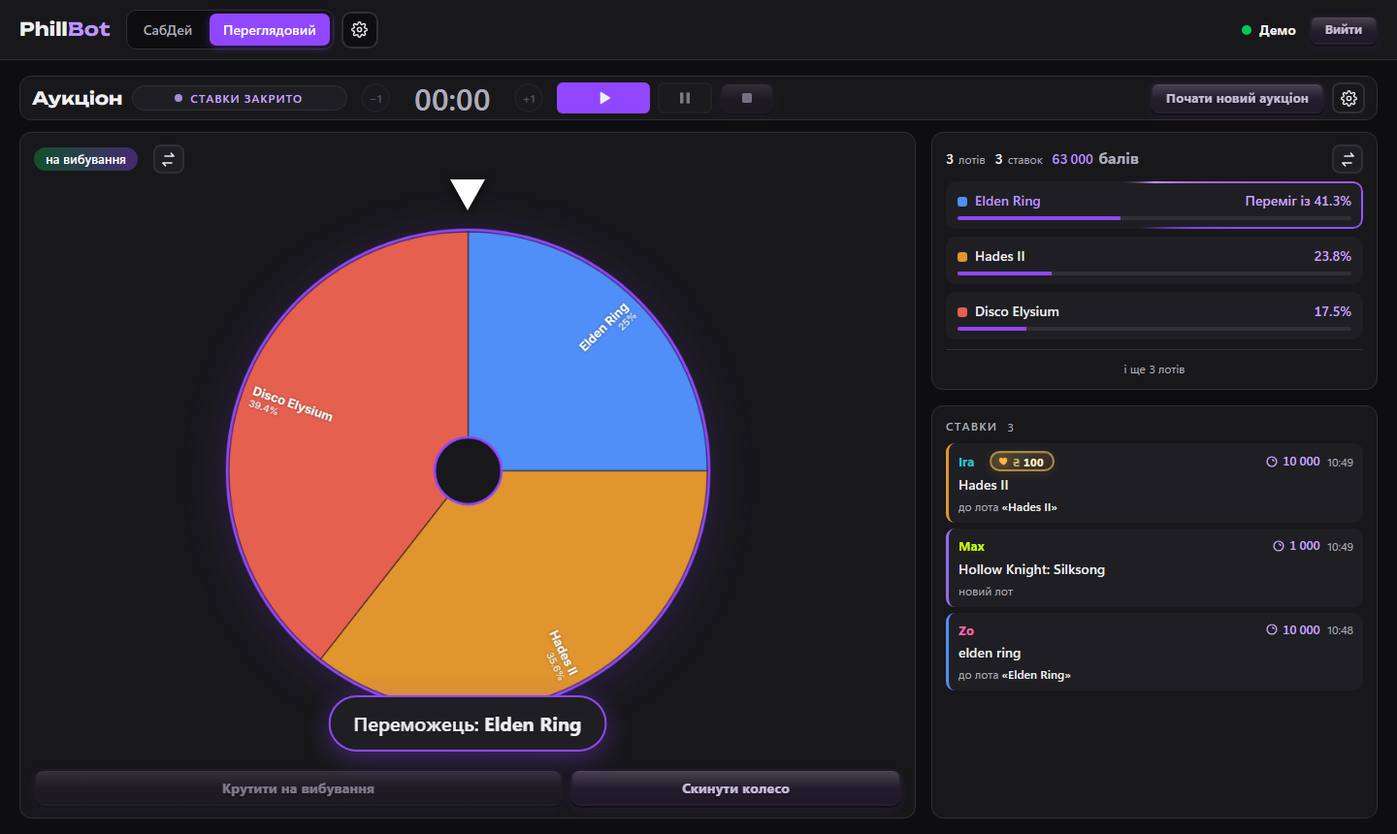
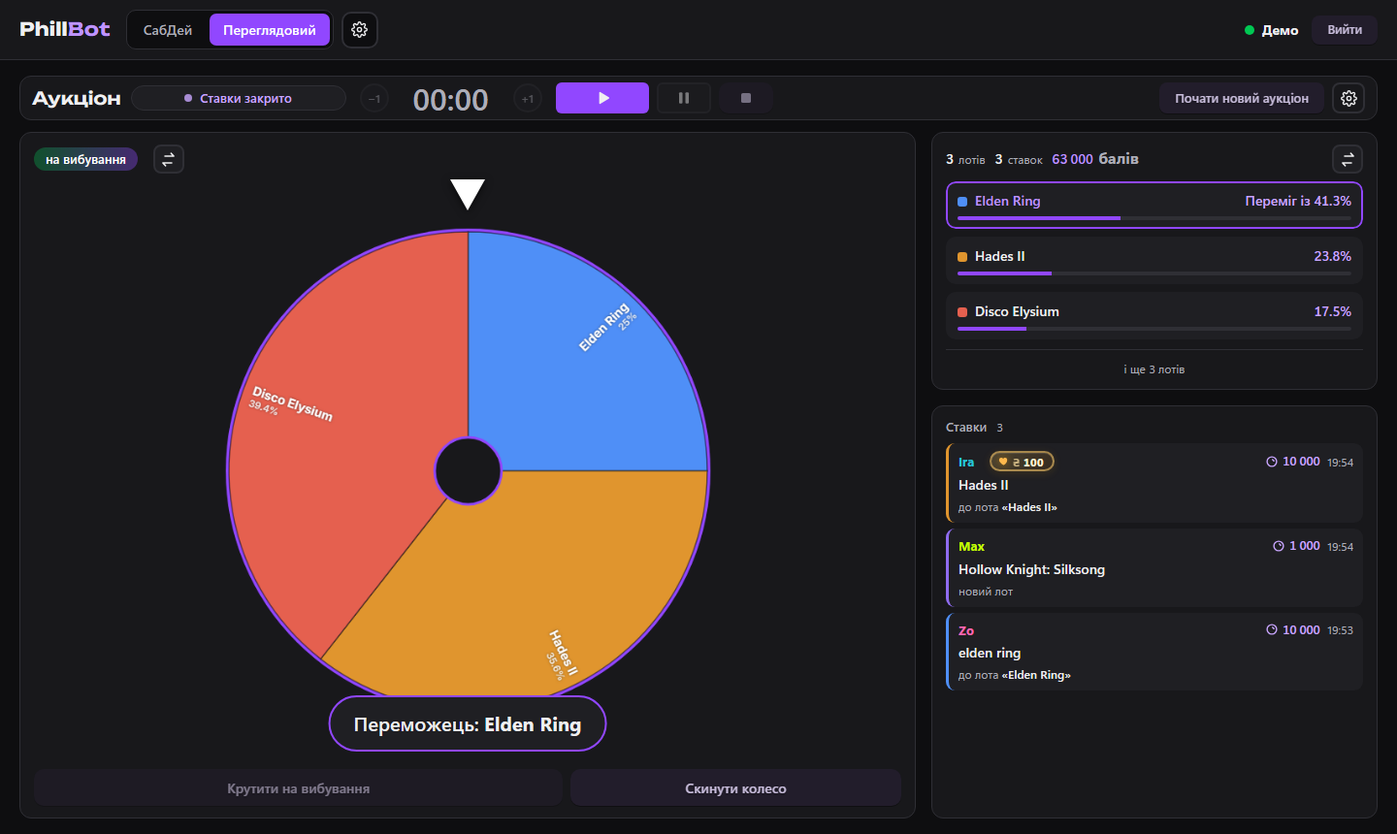
UI polish (unslop): sentence-case labels, no glows or gloss, static winner row
- uppercase tracked labels -> sentence case (cards, tables, status, settings, viewer)
- remove purple/green glows on buttons, tabs, wheel, winner pill, steps
- hold buttons are flat at rest; gloss only while the liquid fills
- status pill: dot + text, no pulse; current-collection arrow no longer flows
- winner row: static brand border instead of spinning, pulsing gradient
- headings 600 instead of 700; one transition:all removed
- README screenshots refreshed

diff --git a/app/frontend/dist/style.css b/app/frontend/dist/style.css
@@ -42,7 +42,7 @@ main{flex:1;min-height:0;display:flex;flex-direction:column}
 aside{overflow-y:auto;padding-right:4px}
 section{display:flex;flex-direction:column;min-height:0;min-width:0}
 .card{background:var(--panel);border:1px solid var(--line);border-radius:10px;padding:14px;margin-bottom:16px}
-.card h2{font:600 12px/1.3 var(--font-ui);text-transform:uppercase;letter-spacing:1px;color:var(--muted);margin:0 0 10px}
+.card h2{font:600 13px/1.3 var(--font-ui);color:var(--muted);margin:0 0 10px}
 label{display:block;color:var(--muted);font-size:12px;margin:8px 0 3px}
 input,select{background:var(--panel2);color:var(--text);border:1px solid var(--line);border-radius:6px;padding:7px 9px;font:inherit;width:100%}
 input:focus,select:focus{outline:none;border-color:var(--accent)}
@@ -112,7 +112,7 @@ details summary{cursor:pointer;color:var(--muted);font-size:12px;margin-top:8px}
 #toast.show{opacity:1}
 .modal .box.settings{max-width:480px}
 .settings h2{font-size:16px;margin:0 0 6px}
-.settings h3{font-size:12px;text-transform:uppercase;letter-spacing:.8px;color:var(--muted);margin:16px 0 4px}
+.settings h3{font-size:13px;font-weight:600;color:var(--muted);margin:16px 0 4px}
 .obsrow{display:flex;align-items:center;gap:6px;margin-top:6px;font-size:12px}
 .obsrow span{flex:1;min-width:0}
 .obsrow code{display:block;font-size:12px;overflow:hidden;text-overflow:ellipsis;white-space:nowrap}
@@ -165,7 +165,7 @@ tr.drop td:first-child{box-shadow:inset 3px 0 0 var(--accent)}
 .mode-tab:not(:disabled):hover{background:var(--panel2);color:var(--text)}
 .mode-tab.active{background:var(--accent);color:#fff}
 .mode-tab.active:hover{background:var(--accent2)!important}
-.mode-tab small{font-size:12px;font-weight:600;opacity:.8;margin-left:2px;text-transform:uppercase;letter-spacing:.5px}
+.mode-tab small{font-size:12px;font-weight:600;opacity:.8;margin-left:2px}
 .mode-tab .lock{margin-left:6px;font-size:12px;color:var(--warn)}
 .mode-tab.active .lock{color:#fff}
 .icon-btn{width:34px;height:32px;padding:0;font-size:16px;display:inline-flex;align-items:center;justify-content:center}
@@ -191,7 +191,7 @@ input[type=range]{padding:0;accent-color:var(--accent);background:transparent;bo
 .rtile .rcost svg{width:12px;height:12px}
 .rtile .rtitle{padding:7px 9px 9px;font-size:12.5px;font-weight:600;line-height:1.3;color:var(--text);min-height:2.6em;overflow-wrap:anywhere}
 .rtile .rtags{display:flex;gap:4px;flex-wrap:wrap;padding:0 9px 8px;margin-top:-4px}
-.rtile .rtag{font-size:12px;font-weight:700;text-transform:uppercase;letter-spacing:.4px;border-radius:3px;padding:1px 5px;background:#3a2a10;color:var(--warn)}
+.rtile .rtag{font-size:12px;font-weight:600;border-radius:3px;padding:1px 5px;background:#3a2a10;color:var(--warn)}
 .rtile .rtag.off{background:#2a2a30;color:var(--muted)}
 .rtile.off .rimg{filter:grayscale(.7) brightness(.7)}
 .rtile.sel{border-color:var(--accent);box-shadow:0 0 0 3px rgba(145,71,255,.25)}
@@ -204,8 +204,8 @@ input[type=range]{padding:0;accent-color:var(--accent);background:transparent;bo
 /* ---------- кнопка «Експорт у Marbles» ---------- */
 .mexport{margin-top:10px}
 .mbtn{position:relative;overflow:hidden;width:100%;height:44px;display:flex;align-items:center;justify-content:center;gap:10px;
-  background:linear-gradient(135deg,#9147ff,#6f2ee0);border:0;color:#fff;font-weight:700;font-size:15px;border-radius:8px;box-shadow:0 2px 10px rgba(145,71,255,.3)}
-.mbtn:not(:disabled):hover{background:linear-gradient(135deg,#a066ff,#7b3bef);box-shadow:0 4px 16px rgba(145,71,255,.45)}
+  background:var(--brand);border:0;color:#fff;font-weight:600;font-size:15px;border-radius:8px}
+.mbtn:not(:disabled):hover{background:#9d5bff}
 .mbtn:disabled{background:var(--panel2);color:var(--muted);box-shadow:none;opacity:1;border:1px solid var(--line)}
 .mbtn.warn:not(:disabled){background:linear-gradient(135deg,#c97a00,#9147ff)}
 .mbtn .mlabel,.mbtn .mcount{position:relative;z-index:1}
@@ -216,7 +216,7 @@ input[type=range]{padding:0;accent-color:var(--accent);background:transparent;bo
 .mbtn.busy:disabled{background:linear-gradient(135deg,#9147ff,#6f2ee0);color:#fff}
 .mbtn.busy .mfill{animation:mfill 1.2s ease-in-out infinite}
 @keyframes mfill{0%{width:0;left:0}50%{width:100%;left:0}100%{width:0;left:100%}}
-.mbtn.ok:disabled{background:linear-gradient(135deg,#00a84f,#008f43);color:#fff;box-shadow:0 2px 12px rgba(0,200,83,.35)}
+.mbtn.ok:disabled{background:#00a84f;color:#fff}
 .mbtn.ok .mlabel{animation:mpop .35s cubic-bezier(.3,1.6,.5,1)}
 .mbtn.go:disabled{background:linear-gradient(135deg,#00a84f,#1e90ff)}
 .mbtn.go .mlabel{animation:mpop .35s cubic-bezier(.3,1.6,.5,1),mrise 1.8s ease-in .2s}
@@ -246,7 +246,7 @@ body{font-size:14px;line-height:1.5}
 .pane.subday{grid-template-columns:340px minmax(0,1fr);gap:20px;padding:20px 24px}
 aside{padding-right:6px}
 .card{border-radius:var(--r);padding:18px;margin-bottom:var(--gap)}
-.card h2{font:600 12px/1.3 var(--font-ui);letter-spacing:1.2px;margin:0 0 12px}
+.card h2{font:600 13px/1.3 var(--font-ui);margin:0 0 12px}
 
 /* таймер */
 .timerbox{display:grid;grid-template-columns:44px 1fr 44px;align-items:center;gap:8px;margin:2px 0 2px}
@@ -294,7 +294,7 @@ details.fold[open]>summary{padding:14px 0 10px}
 /* таблиці */
 .tablewrap{border-radius:var(--r)}
 th,td{padding:11px 14px}
-th{font:600 12px/1.3 var(--font-ui);text-transform:uppercase;letter-spacing:.8px;color:var(--muted);background:#1c1c20;border-bottom:1px solid var(--line);white-space:nowrap}
+th{font:600 13px/1.3 var(--font-ui);color:var(--muted);background:#1c1c20;border-bottom:1px solid var(--line);white-space:nowrap}
 td{font-size:14px}
 tbody tr:last-child td{border-bottom:0}
 .gripcol{width:28px;padding-left:12px;padding-right:0}
@@ -351,7 +351,7 @@ tr.gdetail:hover{background:transparent}
 .wbox{text-align:center;transform:scale(.92);transition:transform .6s cubic-bezier(.2,1.4,.4,1)}
 .welcome.play .wbox{transform:scale(1)}
 .whi{font:600 22px/1.2 var(--font-display);color:var(--muted);opacity:0;animation:wfade .5s .1s forwards}
-.wname{font:700 60px/1.1 var(--font-brand);letter-spacing:.5px;margin:6px 0 10px;
+.wname{font:600 60px/1.1 var(--font-brand);margin:6px 0 10px;
   color:var(--brand-text);
   opacity:0;animation:wpop .7s .2s cubic-bezier(.2,1.5,.4,1) forwards}
 .wsub{font-size:14px;color:var(--muted);opacity:0;animation:wfade .5s .55s forwards}
@@ -366,7 +366,7 @@ tr.gdetail:hover{background:transparent}
 .chatmain .chatwrap,.chatmain .locked{flex:1;min-height:0}
 .cusers{background:var(--panel);border:1px solid var(--line);border-radius:var(--r,12px);overflow-y:auto;padding:8px 0;scrollbar-gutter:stable}
 .cugroup+.cugroup{margin-top:6px}
-.cuhead{display:flex;justify-content:space-between;align-items:center;padding:8px 16px 4px;font:600 12px/1.3 var(--font-ui);text-transform:uppercase;letter-spacing:1px;color:var(--muted)}
+.cuhead{display:flex;justify-content:space-between;align-items:center;padding:8px 16px 4px;font:600 13px/1.3 var(--font-ui);color:var(--muted)}
 .cuhead span{font-variant-numeric:tabular-nums;background:var(--panel2);border-radius:10px;padding:1px 8px;letter-spacing:0}
 .curow{padding:4px 16px;font-size:13.5px;overflow:hidden;text-overflow:ellipsis;white-space:nowrap}
 .curow:hover{background:var(--panel2)}
@@ -392,9 +392,9 @@ tr.gdetail:hover{background:transparent}
 .subdaywrap{flex:1;min-height:0;display:flex;flex-direction:column}
 .stepper{display:flex;align-items:center;gap:14px;padding:14px 24px 0;max-width:560px}
 .step{display:flex;align-items:center;gap:10px;color:var(--muted);font-weight:600;white-space:nowrap}
-.step .num{width:28px;height:28px;border-radius:50%;display:flex;align-items:center;justify-content:center;border:2px solid var(--line);font:700 13px/1 var(--font-display);transition:all .3s}
+.step .num{width:28px;height:28px;border-radius:50%;display:flex;align-items:center;justify-content:center;border:2px solid var(--line);font:600 13px/1 var(--font-display);transition:background-color .3s,border-color .3s,color .3s}
 .step.active{color:var(--text)}
-.step.active .num{border-color:var(--accent);background:var(--accent);color:#fff;box-shadow:0 0 0 4px rgba(145,71,255,.2)}
+.step.active .num{border-color:var(--accent);background:var(--accent);color:#fff}
 .step.done .num{border-color:var(--ok);background:var(--ok);color:#06130b}
 .sline{flex:1;height:3px;background:var(--line);border-radius:2px;overflow:hidden;min-width:60px}
 .sline span{display:block;height:100%;width:0;background:linear-gradient(90deg,var(--ok),var(--accent));transition:width .6s ease}
@@ -406,8 +406,8 @@ tr.gdetail:hover{background:transparent}
 /* етап 2 */
 .gamepane{display:flex;align-items:center;justify-content:center;padding:24px}
 .gamecard{width:min(720px,100%);background:var(--panel);border:1px solid var(--line);border-radius:16px;padding:32px 36px;text-align:center;box-shadow:0 20px 60px rgba(0,0,0,.35)}
-.glabel{font:600 12px/1.3 var(--font-ui);text-transform:uppercase;letter-spacing:1.4px;color:var(--muted)}
-.gname{font:700 36px/1.15 var(--font-brand);margin:10px 0 12px;overflow-wrap:anywhere;color:var(--text)}
+.glabel{font:600 13px/1.3 var(--font-ui);color:var(--muted)}
+.gname{font:600 36px/1.15 var(--font-brand);margin:10px 0 12px;overflow-wrap:anywhere;color:var(--text)}
 .gusers{font-size:13.5px;line-height:2;color:var(--muted);min-height:1em}
 .gtimerbox{display:grid;grid-template-columns:56px 1fr 56px;align-items:center;gap:12px;margin:22px 0 6px}
 .gtimer{font:600 120px/1 var(--font-display);font-variant-numeric:tabular-nums;color:var(--text)}
@@ -421,7 +421,7 @@ tr.gdetail:hover{background:transparent}
 /* вибір переможця */
 td.wincell{white-space:nowrap;padding-left:0;padding-right:6px}
 .winbtn{background:linear-gradient(135deg,#9147ff,#6f2ee0);border:0;color:#fff;font-weight:700;border-radius:8px;padding:5px 12px;opacity:.85}
-.winbtn:hover{opacity:1;box-shadow:0 2px 10px rgba(145,71,255,.4)}
+.winbtn:hover{opacity:1}
 
 /* налаштування: лише вибрана нагорода + «Показати всі» */
 .rtile.rmore{border:2px dashed #3a3a42;background:transparent}
@@ -444,7 +444,7 @@ td.wincell{white-space:nowrap;padding-left:0;padding-right:6px}
 .srow.active{border-color:var(--accent);background:rgba(145,71,255,.14)}
 .sdate{font-weight:700;min-width:170px}
 .smeta{flex:1;color:var(--muted);font-size:13px}
-.sbadge{font-size:12px;font-weight:700;text-transform:uppercase;letter-spacing:.5px;color:var(--ok)}
+.sbadge{font-size:12px;font-weight:600;color:var(--ok)}
 
 /* ---------- індикатор завантаження (див. frontend/README.md) ----------
    Будь-який елемент з класом .is-loading отримує анімовану рамку: градієнт зелений → фіолетовий, що біжить по контуру. */
@@ -464,18 +464,18 @@ td.wincell{white-space:nowrap;padding-left:0;padding-right:6px}
 /* ---------- шрифти: лише змінні --font-* (див. frontend/README.md) ---------- */
 button,input,select,textarea,option{font-family:inherit}
 code,kbd,pre,samp{font-family:var(--font-mono)}
-h1,h2,h3,h4{font-family:var(--font-brand)}
+h1,h2,h3,h4{font-family:var(--font-brand);font-weight:600}
 .card h2,.cuhead,th,.glabel,.settings h3:not(.twitchfont){font-family:var(--font-ui)}
 .settings h3.row>.icon-btn{flex:0 0 34px}
 
 /* ---------- «Переможець»: затисніть і тримайте ----------
    Натиск — кнопка вдавлюється; рідина з градієнтом зелений → фіолетовий заповнює її зліва направо (рух — у JS, змінна --p). */
 .winbtn{--p:0;--w:132px;position:relative;overflow:hidden;isolation:isolate;min-width:132px;height:34px;padding:0 16px;border-radius:10px;
-  border:1px solid rgba(145,71,255,.5);background:linear-gradient(180deg,#2a2236,#211b2b);color:#e9dcff;font-weight:700;letter-spacing:.2px;
+  border:1px solid rgba(145,71,255,.45);background:#241e2e;color:#e9dcff;font-weight:600;
   user-select:none;touch-action:none;transform:translateY(0) scale(1);
-  box-shadow:0 2px 0 rgba(0,0,0,.45),0 4px 12px rgba(145,71,255,.12),inset 0 1px 0 rgba(255,255,255,.06);
+  box-shadow:0 1px 0 rgba(0,0,0,.4);
   transition:transform .14s cubic-bezier(.3,.7,.4,1),box-shadow .14s,border-color .2s}
-.winbtn:hover{border-color:#a970ff;background:linear-gradient(180deg,#2f2640,#251e31)!important}
+.winbtn:hover{border-color:#a970ff;background:#2a2336!important}
 .winbtn.pressed{transform:translateY(2px) scale(.955);border-color:#b78bff;
   box-shadow:0 0 0 rgba(0,0,0,0),inset 0 3px 10px rgba(0,0,0,.55),0 0 0 4px rgba(145,71,255,.18)}
 .winbtn.near{animation:near .12s linear infinite}
@@ -492,7 +492,9 @@ h1,h2,h3,h4{font-family:var(--font-brand)}
 .winbtn .lq-edge path.e2{fill:rgba(220,200,255,.35);animation-duration:.8s}
 @keyframes edge{from{transform:translateY(-15px)}to{transform:translateY(0)}}
 .winbtn .lq-gloss{position:absolute;inset:0;border-radius:inherit;z-index:2;
-  background:linear-gradient(180deg,rgba(255,255,255,.18),rgba(255,255,255,.04) 42%,transparent 55%)}
+  background:linear-gradient(180deg,rgba(255,255,255,.18),rgba(255,255,255,.04) 42%,transparent 55%);opacity:0;transition:opacity .2s ease-out}
+/* глянець лише разом із рідиною — у спокої кнопка пласка */
+.winbtn.pressed .lq-gloss,.winbtn.full .lq-gloss{opacity:1}
 .winbtn .bub{position:absolute;bottom:-6px;width:5px;height:5px;border-radius:50%;background:rgba(255,255,255,.55);opacity:0}
 .winbtn.pressed .bub{animation:bub 1.1s ease-in infinite}
 .winbtn .bub:nth-child(1){left:12%;animation-delay:.05s} .winbtn .bub:nth-child(2){left:38%;width:3px;height:3px;animation-delay:.4s}
@@ -511,7 +513,7 @@ h1,h2,h3,h4{font-family:var(--font-brand)}
 .gsec{display:none}
 .gsec.on{display:block;animation:enter2 .4s cubic-bezier(.2,1.2,.4,1)}
 @keyframes enter2{from{opacity:0;transform:translateY(8px)}to{opacity:1;transform:none}}
-.gover{font:700 26px/1.2 var(--font-brand);margin:22px 0 6px}
+.gover{font:600 26px/1.2 var(--font-brand);margin:22px 0 6px}
 .vstart{height:48px;min-width:280px;font-size:16px;border-radius:12px;margin:8px 0 14px;background:var(--brand);border:0}
 .vstart:hover{filter:brightness(1.1)}
 .gctl.small2 button{min-width:0;height:36px;font-size:13px;font-weight:600}
@@ -544,8 +546,8 @@ header h1{color:var(--text);letter-spacing:.3px} header h1 span{color:var(--bran
 .cchip + .cchip::after{content:"";position:absolute;right:calc(100% + 4px);top:50%;width:7px;height:7px;transform:translateY(-50%) rotate(45deg);pointer-events:none;
   border-top:2px solid #9147ff;border-right:2px solid #9147ff;border-radius:1px;opacity:.85}
 /* перед поточним збором крапки «течуть» уперед; коли збір іде — ще й світяться */
-.cchip.live::before{opacity:1;animation:flow 1s linear infinite}
-.cchip.live.on::before{filter:drop-shadow(0 0 3px rgba(0,230,118,.7))}
+.cchip.live::before{opacity:1}
+.cchip.live.on::before{background:var(--ok)}
 .cchip.live::after{border-color:#b98cff;opacity:1}
 @keyframes flow{from{-webkit-mask-position:0 50%;mask-position:0 50%}to{-webkit-mask-position:7px 50%;mask-position:7px 50%}}
 .cchip b,.cchip span{max-width:100%;overflow:hidden;text-overflow:ellipsis;white-space:nowrap}
@@ -564,7 +566,7 @@ button.icon:not(:disabled):hover{color:var(--text)}
 /* ---------- вкладки: градієнтна підкладка, що ковзає ---------- */
 .modes,.tabs .seg{position:relative;isolation:isolate}
 .seg-ind{position:absolute;left:0;top:3px;bottom:3px;width:0;border-radius:7px;background:var(--grad);z-index:0;pointer-events:none;
-  box-shadow:0 2px 10px rgba(145,71,255,.35);transition:transform .42s cubic-bezier(.45,1.35,.5,1),width .42s cubic-bezier(.45,1.35,.5,1),opacity .2s}
+  transition:transform .32s cubic-bezier(.2,.8,.2,1),width .32s cubic-bezier(.2,.8,.2,1),opacity .2s}
 .modes>.mode-tab,.tabs .seg>.tab{position:relative;z-index:1;transition:color .3s}
 .mode-tab.active,.tab.active,.mode-tab.active:hover,.tab.active:hover{background:transparent!important;color:#fff}
 /* вміст вкладки прослизає слідом */
@@ -574,11 +576,11 @@ button.icon:not(:disabled):hover{color:var(--text)}
 
 /* статус збору — плашка (замість дрібного тексту) */
 .status{margin:6px 0 16px;display:flex;justify-content:center}
-.spill{display:inline-flex;align-items:center;gap:8px;padding:5px 14px 5px 12px;border-radius:999px;
-  font:600 12px/1.2 var(--font-ui);letter-spacing:.9px;text-transform:uppercase;color:var(--muted);background:var(--panel2);border:1px solid var(--line)}
+.spill{display:inline-flex;align-items:center;gap:8px;padding:4px 12px;border-radius:999px;
+  font:600 13px/1.2 var(--font-ui);color:var(--muted);background:var(--panel2);border:1px solid var(--line)}
 .spill::before{content:"";width:8px;height:8px;border-radius:50%;background:currentColor;opacity:.8}
-.spill.running{color:#5cf29a;background:var(--panel2);border-color:rgba(0,200,83,.55)}
-.spill.running::before{background:#00e676;box-shadow:0 0 0 0 rgba(0,230,118,.6);animation:live 1.6s infinite}
+.spill.running{color:#5cf29a}
+.spill.running::before{background:#00e676}
 @keyframes live{0%{box-shadow:0 0 0 0 rgba(0,230,118,.55)}70%{box-shadow:0 0 0 7px rgba(0,230,118,0)}100%{box-shadow:0 0 0 0 rgba(0,230,118,0)}}
 .spill.paused{color:var(--warn)}
 .spill.finished{color:#c9a6ff}
@@ -599,7 +601,7 @@ button,.winbtn,.cchip,.mbtn:disabled{border-width:2px}
 .tctl{grid-template-columns:minmax(0,1.6fr) minmax(0,1fr)}
 #stopBtn{grid-column:1 / -1}
 /* основні кнопки (Старт, Зберегти…) — при наведенні градієнтна заливка, трохи світліша */
-button.primary:not(:disabled):hover{border-color:transparent;background:var(--grad) border-box no-repeat;filter:brightness(1.08);box-shadow:0 4px 14px rgba(145,71,255,.35)}
+button.primary:not(:disabled):hover{border-color:transparent;background:var(--grad) border-box no-repeat;filter:brightness(1.08)}
 /* градієнтна заливка рахується від зовнішнього краю (з рамкою) і не повторюється — без «чужих» смуг по боках */
 button.primary:not(:disabled):hover{background:var(--grad) border-box no-repeat;background-origin:border-box}
 
@@ -614,7 +616,7 @@ button.primary:not(:disabled):hover{background:var(--grad) border-box no-repeat;
 .gwrap{width:min(720px,100%);display:flex;flex-direction:column;align-items:stretch;gap:18px}
 .ghead{text-align:center}
 .ghead .gname{margin:6px 0 8px;font-size:44px}
-.gwho{font:600 12px/1 var(--font-ui);text-transform:uppercase;letter-spacing:1px;color:var(--muted);margin-right:4px}
+.gwho{font:600 13px/1 var(--font-ui);color:var(--muted);margin-right:4px}
 .gamecard{width:100%;padding:26px 32px}
 .gamecard .gtimerbox{margin:0 0 4px}
 .gamecard #gPlay .gstatus{margin-bottom:0}
@@ -641,7 +643,7 @@ button.primary:not(:disabled):hover{background:var(--grad) border-box no-repeat;
 /* «Почати голосування» — свій градієнт; при наведенні лише світлішає, без підміни фону (не «блимає») */
 button.vstart,button.vstart:not(:disabled):hover{background:var(--brand);border-color:transparent}
 button.vstart{transition:filter .2s ease,box-shadow .2s ease,transform .15s ease}
-button.vstart:not(:disabled):hover{filter:brightness(1.1);box-shadow:0 6px 18px rgba(145,71,255,.35);transform:translateY(-1px)}
+button.vstart:not(:disabled):hover{filter:brightness(1.1)}
 /* «Завершити гру»: у градієнті рідини спершу червоний — червоний → зелений → фіолетовий */
 .winbtn.holdend{border-color:rgba(235,64,52,.55)}
 .winbtn.holdend:hover{border-color:#ff6b61}
@@ -663,7 +665,7 @@ button.vstart:not(:disabled):hover{filter:brightness(1.1);box-shadow:0 6px 18px 
   100%{opacity:0;transform:translate(190%,-50%) scale(1.6,1.3);filter:blur(10px)}}
 /* основні кнопки (Старт, Зберегти, Продовжити гру…) — градієнт уже в спокої; при наведенні лише світлішають, фон не підміняється (не «блимає») */
 button.primary:not(.mode-tab):not(.tab){background:var(--grad) border-box no-repeat;border-color:transparent;transition:filter .2s ease,box-shadow .2s ease,transform .15s ease}
-button.primary:not(.mode-tab):not(.tab):not(:disabled):hover{background:var(--grad) border-box no-repeat;filter:brightness(1.1);box-shadow:0 6px 18px rgba(145,71,255,.35);transform:translateY(-1px)}
+button.primary:not(.mode-tab):not(.tab):not(:disabled):hover{background:var(--grad) border-box no-repeat;filter:brightness(1.1)}
 
 /* шестерня налаштувань СабДею — в одному рядку зі зборами */
 .streambar{gap:12px}
@@ -691,7 +693,7 @@ button.primary:not(.mode-tab):not(.tab):not(:disabled):hover{background:var(--gr
 #modeViewing .card{margin-bottom:0}
 .aubar{display:grid;grid-template-columns:auto minmax(260px,330px) minmax(220px,300px) 1fr auto;align-items:center;gap:18px;padding:10px 14px}
 .aubar-l{display:flex;flex-direction:column;align-items:flex-start;gap:8px}
-.autitle{font:700 20px/1 var(--font-brand);color:var(--text)}
+.autitle{font:600 20px/1 var(--font-brand);color:var(--text)}
 .autimer{margin:0}
 .autimer .timer{font-size:46px;padding:0}
 .auctl{display:grid;grid-template-columns:minmax(0,1.6fr) minmax(0,1fr);gap:8px}
@@ -715,7 +717,7 @@ button.primary:not(.mode-tab):not(.tab):not(:disabled):hover{background:var(--gr
 /* колесо */
 .wheelbox{position:relative;flex:1;min-height:0;display:grid;place-items:center}
 .auside .wheelbox{height:300px;flex:0 0 300px}
-.wheelbox canvas{display:block;filter:drop-shadow(0 6px 22px rgba(145,71,255,.18))}
+.wheelbox canvas{display:block}
 .wpointer{position:absolute;top:-2px;left:50%;width:0;height:0;transform:translateX(-50%);z-index:2;
   border-left:13px solid transparent;border-right:13px solid transparent;border-top:24px solid #fff;filter:drop-shadow(0 2px 4px rgba(0,0,0,.6))}
 .auwrap.swapped .wpointer{border-left-width:18px;border-right-width:18px;border-top-width:32px}
@@ -723,7 +725,7 @@ button.primary:not(.mode-tab):not(.tab):not(:disabled):hover{background:var(--gr
   padding:8px 16px;border-radius:999px;font-weight:600;background:rgba(24,24,27,.92);border:2px solid var(--line);transition:opacity .35s ease,transform .45s cubic-bezier(.2,1.3,.4,1)}
 .wresult.show{opacity:1;transform:translate(-50%,0)}
 .wresult.out{border-color:rgba(235,64,52,.6);color:#ffb3ad}
-.wresult.win{border-color:transparent;background:linear-gradient(#1f1f23,#1f1f23) padding-box,var(--grad) border-box;font-size:15px;box-shadow:0 6px 24px rgba(145,71,255,.35)}
+.wresult.win{border-color:var(--brand);background:#1f1f23;font-size:15px}
 .auwrap.swapped .wresult.win{font-size:20px;padding:12px 24px}
 .wctl{display:grid;grid-template-columns:minmax(0,1.6fr) minmax(0,1fr);gap:8px;margin-top:10px}
 .wctl button{height:38px}
@@ -869,7 +871,7 @@ tr[draggable="true"] input{cursor:text}
 /* без заголовків «Лоти» / «Колесо»; режим колеса — помітний бейдж */
 #auListWin .austats{margin-left:0}
 .auMode{font:700 12.5px/1 var(--font-ui);letter-spacing:.3px;color:#fff;padding:6px 12px;border-radius:999px;
-  background:linear-gradient(#2a2236,#2a2236) padding-box,var(--grad) border-box;border:2px solid transparent;box-shadow:0 2px 10px rgba(145,71,255,.25)}
+  background:#2a2236;border:1px solid rgba(145,71,255,.45)}
 
 /* бейдж режиму колеса: без рамки й жирності — не схожий на кнопку */
 .auMode{font:500 12.5px/1 var(--font-ui);letter-spacing:.2px;color:#fff;padding:6px 12px;border:0;box-shadow:none;
@@ -893,7 +895,7 @@ tr[draggable="true"] input{cursor:text}
 .autop-i.wglow::after{content:"";position:absolute;inset:-2px;border-radius:12px;padding:2px;pointer-events:none;z-index:5;
   background:conic-gradient(from var(--load-angle),#bf94ff,#9147ff 30%,rgba(145,71,255,0) 60%,rgba(145,71,255,0) 85%,#bf94ff);
   -webkit-mask:linear-gradient(#000 0 0) content-box,linear-gradient(#000 0 0);-webkit-mask-composite:xor;mask-composite:exclude;
-  animation:load-spin 3.2s linear infinite,win-pulse 1.8s ease-in-out infinite}
+  background:var(--brand)}  /* переможець — статична рамка, без обертання й пульсу */
 @keyframes win-pulse{0%,100%{opacity:1}50%{opacity:.35}}
 .autop-i.wglow .nm{color:var(--brand-text)}
 .autop-i.wglow{background:var(--panel2);border:0;border-left:4px solid var(--c)}
@@ -904,7 +906,7 @@ tr[draggable="true"] input{cursor:text}
   background:var(--brand);
   -webkit-mask:linear-gradient(#000 0 0) top/100% 2px no-repeat,linear-gradient(#000 0 0) bottom/100% 2px no-repeat;
   mask:linear-gradient(#000 0 0) top/100% 2px no-repeat,linear-gradient(#000 0 0) bottom/100% 2px no-repeat;
-  animation:win-flow 4s linear infinite,win-pulse 1.8s ease-in-out infinite}
+}
 @keyframes win-flow{to{background-position:-200% 0}}
 /* кнопки-затискання з червоною «фарбою»: без червоного ободка — звичайна нейтральна рамка */
 .winbtn.holdend{border-color:var(--line)}
@@ -991,7 +993,7 @@ td > .donchip{margin-left:0}
 .tabs .seg,.auseg{background:transparent;border:0;border-radius:0;padding:0;gap:2px;box-shadow:inset 0 -1px 0 var(--line)}
 .tabs .seg>.tab,.auseg>.tab{padding:8px 14px 10px;border-radius:6px 6px 0 0;color:var(--muted);font-weight:600}
 .tabs .seg>.tab.active,.auseg>.tab.active{color:#fff}
-.tabs .seg>.seg-ind,.auseg>.seg-ind{top:auto;bottom:0;height:3px;border-radius:3px 3px 0 0;box-shadow:0 0 12px rgba(145,71,255,.45)}
+.tabs .seg>.seg-ind,.auseg>.seg-ind{top:auto;bottom:0;height:3px;border-radius:3px 3px 0 0}
 .tabs .seg>.tab:not(.active):hover,.auseg>.tab:not(.active):hover{color:var(--text)!important;background:rgba(255,255,255,.035)!important}
 /* загальні налаштування: дві панелі поруч — загальне ліворуч, Donatello/ngrok праворуч */
 .mpair{display:flex;gap:16px;align-items:stretch;justify-content:center;width:min(980px,96vw);max-height:calc(100vh - 40px)}

diff --git a/app/web/viewer.html b/app/web/viewer.html
@@ -34,7 +34,7 @@
   .stat{background:var(--panel2);border-radius:8px;padding:10px 6px;text-align:center}
   .stat b{display:block;font:600 20px/1.1 var(--num);font-variant-numeric:tabular-nums}
   .stat span{font-size:12px;color:var(--muted)}
-  h2{font:600 12px/1.3 var(--ui);text-transform:uppercase;letter-spacing:.8px;color:var(--muted);margin:0 0 10px}
+  h2{font:600 13px/1.3 var(--ui);color:var(--muted);margin:0 0 10px}
   ol{list-style:none;margin:0;padding:0}
   li.row{display:grid;grid-template-columns:24px minmax(0,1fr) auto;gap:4px 10px;align-items:center;padding:10px 0;border-top:1px solid var(--line)}
   li.row:first-child{border-top:0;padding-top:0}
@@ -47,8 +47,8 @@
   .who{grid-column:2/4;font-size:12px;color:var(--muted);overflow:hidden;text-overflow:ellipsis;white-space:nowrap}
   li.out .nm{text-decoration:line-through;color:var(--muted)} li.out .bar i{background:#3a3a42}
   .dot{display:inline-block;width:8px;height:8px;border-radius:50%;margin-right:6px;vertical-align:1px}
-  .winner{font:700 28px/1.2 "Unbounded",var(--ui);margin:6px 0 2px;overflow-wrap:anywhere}
-  .lbl{font-size:12px;color:var(--muted);text-transform:uppercase;letter-spacing:.8px}
+  .winner{font:600 28px/1.2 "Unbounded",var(--ui);margin:6px 0 2px;overflow-wrap:anywhere}
+  .lbl{font-size:13px;color:var(--muted)}
   .vote{display:grid;grid-template-columns:1fr 1fr;gap:8px;margin-top:12px}
   .vote div{border-radius:8px;padding:10px;text-align:left;background:var(--panel2)}
   .vote div b{font:700 22px var(--num);margin-right:8px} .vote .y b{color:#3fe08a} .vote .n b{color:var(--brand-text)}
